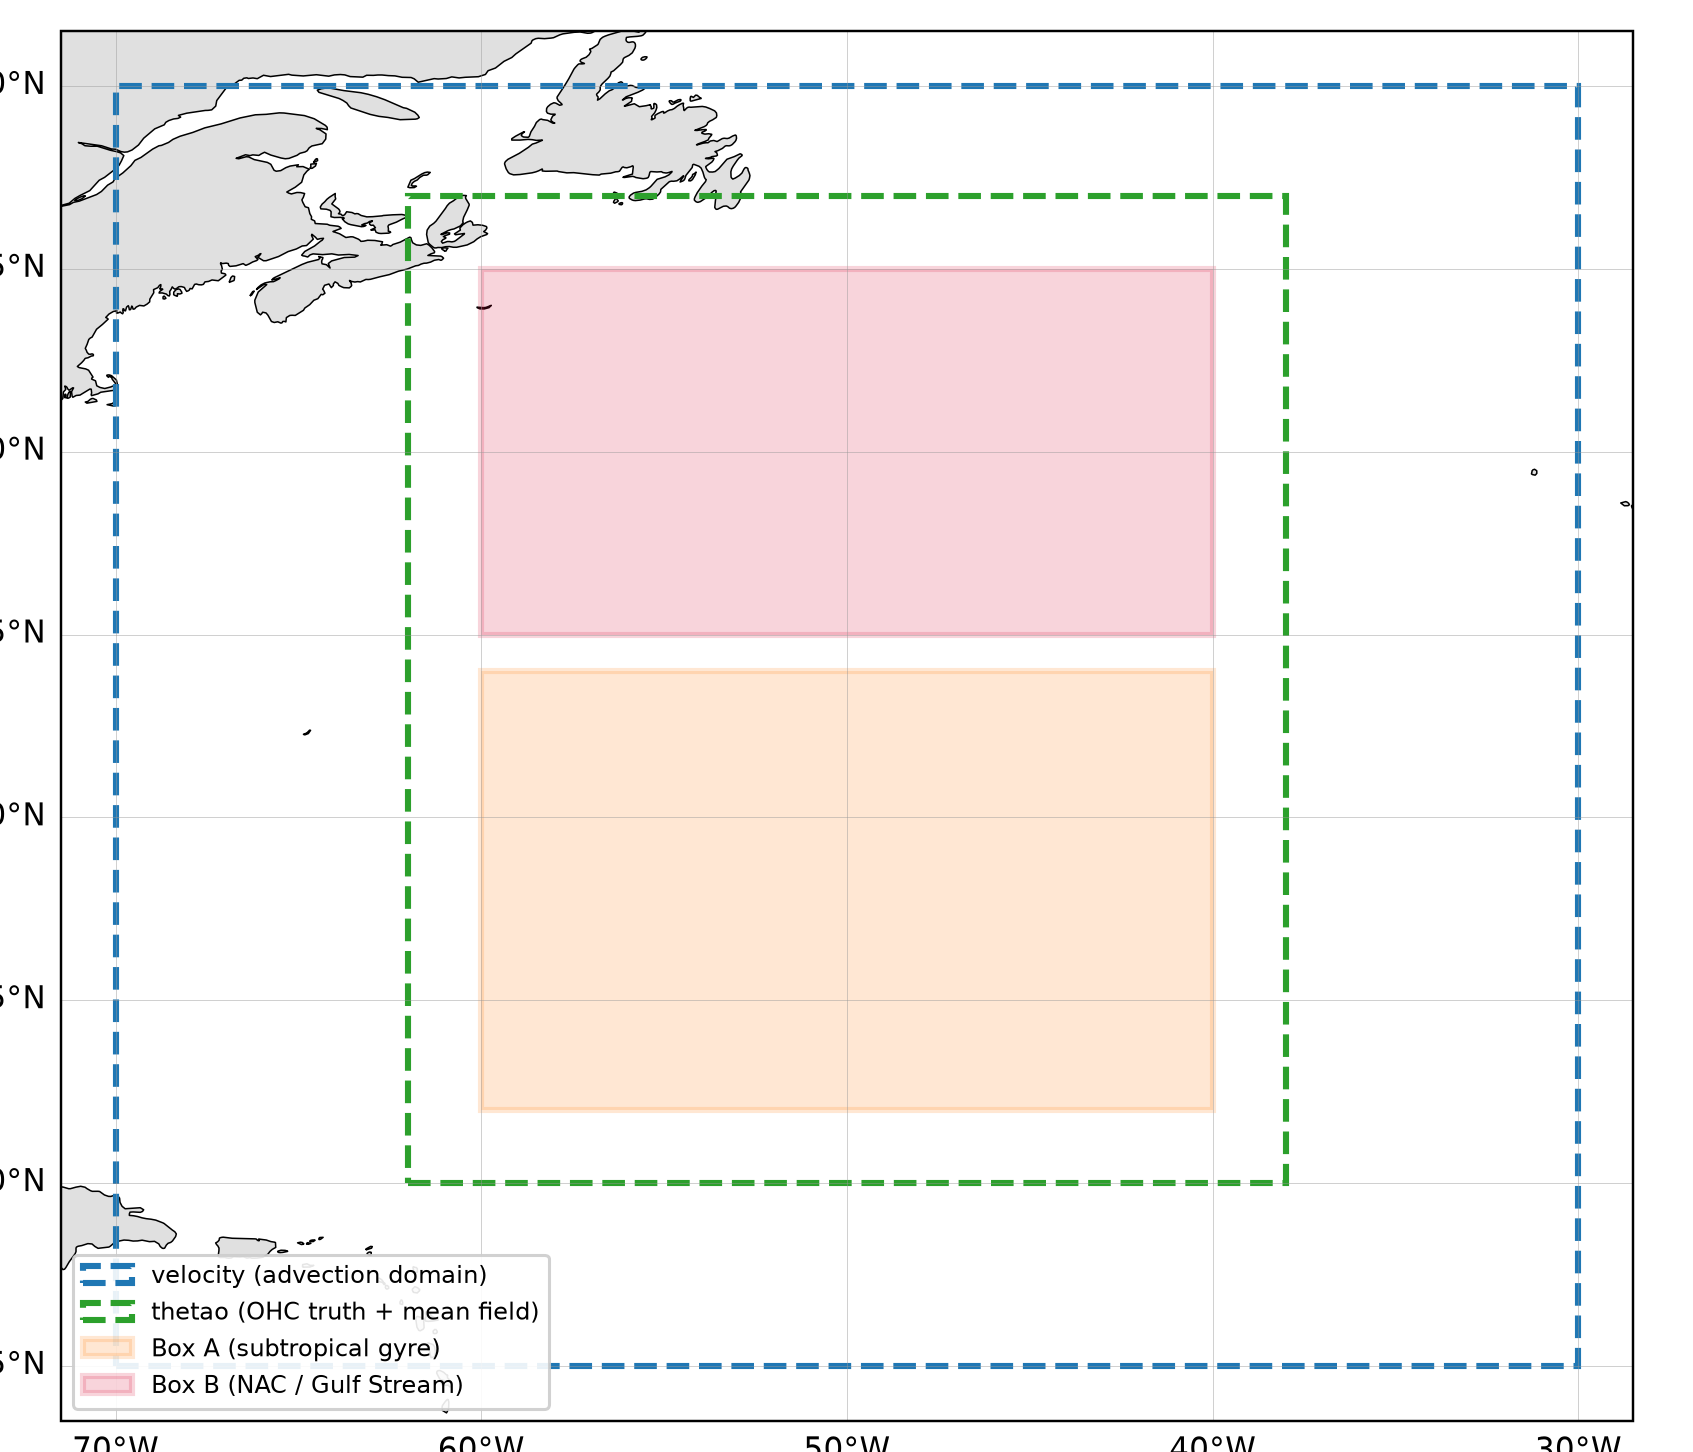
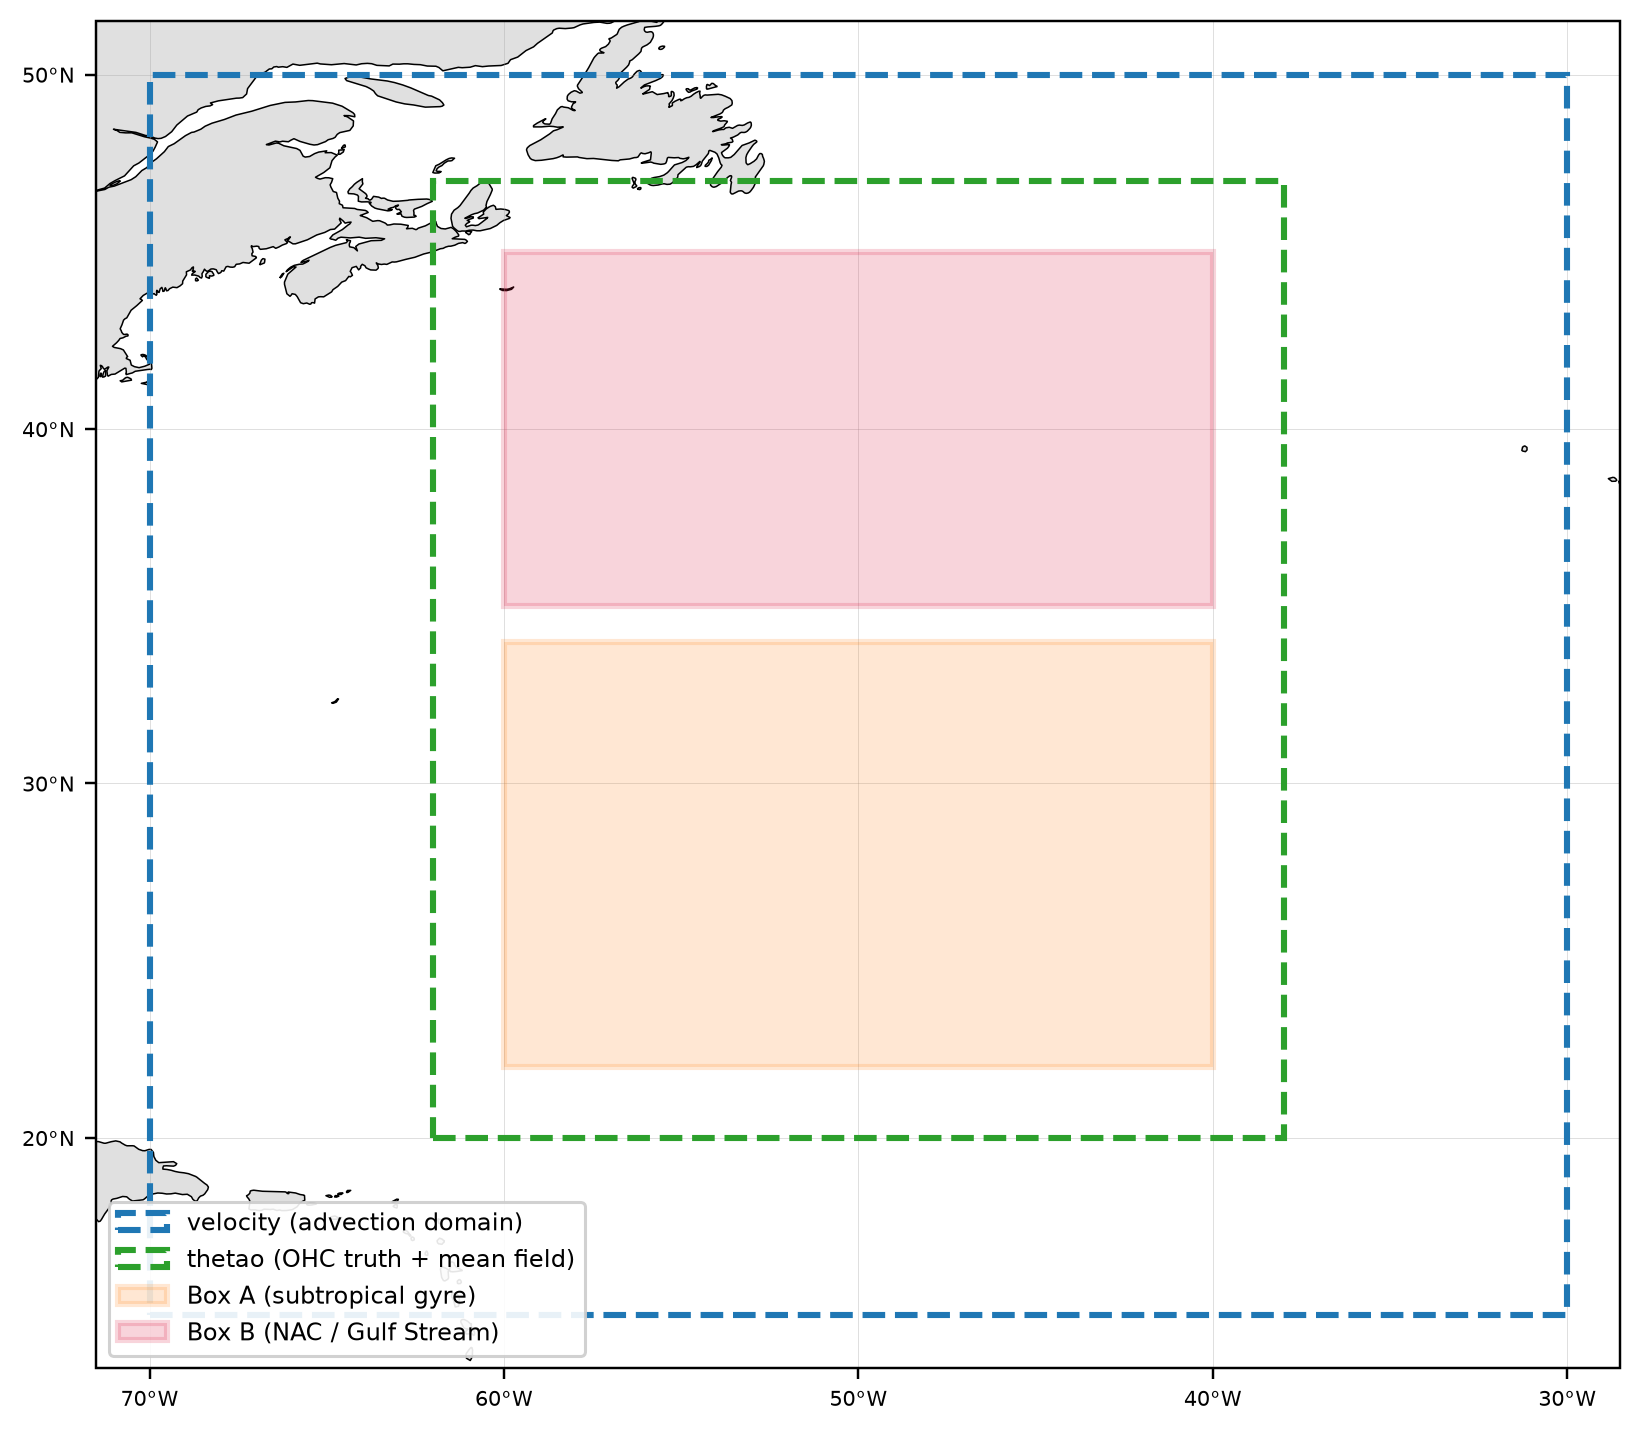
report: domain and residual-field maps, steady-arm prose
Front section of mean_estimation_mc: analysis-domain map (both boxes
inside the velocity and thetao download regions), single-day residual
fields at the 5/50/95th percentiles of each box's daily spatial spread,
and the fitted mean field at quarterly snapshots. Days are shown
unaveraged; the mean field is shown monthly because it is smooth in time
(0.03 GJ/m2 day-to-day against a 3.8 GJ/m2 seasonal range).

Body rewritten for the 10x10 steady arm: 7,500 designs, MC se ~0.012,
temporal term down to 0.036 rms, and all ten aligned cells below their
column mean. Both noise scales are reported and no p-value is drawn.

Map figures use ordinary matplotlib ticks rather than cartopy's
gridliner: with draw_labels=True, GeoAxes.get_tightbbox raises on a NaN
label position, matplotlib swallows it, and a bbox_inches="tight" save
(what the Jupyter inline backend does) collapses the figure onto the
colorbars, dropping every map.

Note: editing a code/ module a report depends on does not invalidate
reports/.jupyter_cache, which keys on qmd cell source. Module edits need
quarto render --cache-refresh or the render silently replays stale cells.

Changed region(s): [[0.0, 0.0, 0.9939, 1.0], [0.2174, 0.6141, 0.2485, 0.6448], [0.2174, 0.3685, 0.2485, 0.3992]]

diff --git a/code/osse/mean_mc.py b/code/osse/mean_mc.py
@@ -245,45 +245,135 @@ def quantile_days(box, qs=(0.05, 0.5, 0.95)):
     return pd.DataFrame(out)
 
 
+def mean_field_months(box, year, months=(1, 4, 7, 10)):
+    """Fitted mean field evaluated at mid-month, as a (month, lat, lon) array.
+
+    The basis is smooth in time -- day-to-day change is ~0.03 GJ/m^2 against a
+    ~4 GJ/m^2 seasonal range -- so month is the finest unit at which it varies
+    visibly.
+    """
+    from osse import build_residual_field as brf
+    with xr.open_dataset(os.path.join(cfg.OUT_DIR, f"mean_field_coef_{box}.nc")) as ds:
+        shape = (ds.sizes["latitude"], ds.sizes["longitude"])
+        beta = ds["beta"].values.reshape(ds.sizes["coef"], -1)
+        t = np.array([np.datetime64(f"{year}-{m:02d}-15") for m in months],
+                     dtype="datetime64[ns]")
+        m = brf.evaluate_mean_field(beta, t, shape, quadratic=True,
+                                    t_ref=ds.attrs["t_ref"])
+        return xr.DataArray(m, dims=("month", "latitude", "longitude"),
+                            coords={"month": list(months),
+                                    "latitude": ds["latitude"], "longitude": ds["longitude"]})
+
+
+def _map_grid(nrow, ncol, figsize, left=0.05, right=0.885, bottom=0.05, top=0.90,
+              hgap=0.015, vgap=0.11):
+    """GeoAxes grid at explicit positions, plus one colorbar slot per row.
+
+    Positions are set by hand rather than by a layout engine: cartopy gridliners
+    raise inside tight_layout, and constrained layout resolves row-spanning
+    colorbars inconsistently, which silently collapses the map axes.
+    """
+    import matplotlib.pyplot as plt
+    import cartopy.crs as ccrs
+
+    pc = ccrs.PlateCarree()
+    fig = plt.figure(figsize=figsize)
+    w = (right - left - (ncol - 1) * hgap) / ncol
+    h = (top - bottom - (nrow - 1) * vgap) / nrow
+    axes, caxes = [], []
+    for r in range(nrow):
+        y = top - (r + 1) * h - r * vgap
+        axes.append([fig.add_axes([left + c * (w + hgap), y, w, h], projection=pc)
+                     for c in range(ncol)])
+        caxes.append(fig.add_axes([right + 0.012, y + 0.04 * h, 0.014, h * 0.92]))
+    return fig, axes, caxes
+
+
+def _geo_ticks(ax, extent, bottom_labels, left_labels, step=5.0):
+    """Lat/lon ticks via the ordinary matplotlib tick machinery.
+
+    Deliberately NOT ax.gridlines(draw_labels=True): the cartopy gridliner makes
+    GeoAxes.get_tightbbox raise on a NaN label position, matplotlib swallows
+    that, and the figure's tight bbox then collapses onto whatever axes did
+    succeed -- so a bbox_inches="tight" save (what the Jupyter inline backend
+    does, hence Quarto) drops every map and keeps only the colorbars.
+    """
+    import cartopy.crs as ccrs
+    from cartopy.mpl.ticker import LongitudeFormatter, LatitudeFormatter
+    lo0, lo1, la0, la1 = extent
+    ax.set_xticks(np.arange(np.ceil(lo0 / step) * step, lo1 + 1e-9, step),
+                  crs=ccrs.PlateCarree())
+    ax.set_yticks(np.arange(np.ceil(la0 / step) * step, la1 + 1e-9, step),
+                  crs=ccrs.PlateCarree())
+    ax.xaxis.set_major_formatter(LongitudeFormatter())
+    ax.yaxis.set_major_formatter(LatitudeFormatter())
+    ax.tick_params(labelsize=7, labelbottom=bottom_labels, labelleft=left_labels)
+    ax.grid(lw=0.25, color="0.6", alpha=0.4)
+
+
+def _draw_map(ax, da, norm, cmap, extent, title, bottom_labels, left_labels):
+    import cartopy.crs as ccrs
+    import cartopy.feature as cfeature
+    pc = ccrs.PlateCarree()
+    ax.set_extent(extent, crs=pc)
+    ax.add_feature(cfeature.LAND, facecolor="0.88", zorder=0)
+    ax.add_feature(cfeature.COASTLINE, lw=0.4)
+    im = ax.pcolormesh(da["longitude"], da["latitude"], da.values * J_TO_GJ,
+                       cmap=cmap, norm=norm, transform=pc, shading="auto")
+    ax.set_title(title, fontsize=9)
+    _geo_ticks(ax, extent, bottom_labels, left_labels)
+    return im
+
+
+def _box_extent(box, pad=0.5):
+    (la0, la1), (lo0, lo1) = cfg.BOXES[box]["lat_bounds"], cfg.BOXES[box]["lon_bounds"]
+    return [lo0 - pad, lo1 + pad, la0 - pad, la1 + pad]
+
+
 def plot_quantile_days(boxes=("boxB", "boxA"), qs=(0.05, 0.5, 0.95),
-                       figsize=(13, 7.6), clip=0.995):
+                       figsize=(12.5, 8.2), clip=0.995):
     """Single-day residual fields at quantiles of each box's daily spatial spread.
 
     One row per box on its own colour scale: the boxes differ several-fold in
     amplitude, and a shared scale would flatten the within-box structure this
     figure exists to show.
     """
-    import matplotlib.pyplot as plt
-    import cartopy.crs as ccrs
-    import cartopy.feature as cfeature
     from matplotlib.colors import TwoSlopeNorm
 
-    pc = ccrs.PlateCarree()
-    fig, axes = plt.subplots(len(boxes), len(qs), figsize=figsize,
-                             subplot_kw={"projection": pc}, layout="constrained",
-                             squeeze=False)
+    fig, axes, caxes = _map_grid(len(boxes), len(qs), figsize)
     for r, box in enumerate(boxes):
         sel = quantile_days(box, qs)
-        (la0, la1), (lo0, lo1) = cfg.BOXES[box]["lat_bounds"], cfg.BOXES[box]["lon_bounds"]
         with xr.open_dataset(os.path.join(cfg.OUT_DIR, f"residual_field_{box}.nc")) as ds:
             days = [ds["z"].sel(year=int(d.year)).isel(doy=int(d.doy)).load()
                     for _, d in sel.iterrows()]
         hi = max(float(np.nanquantile(np.abs(d.values), clip)) for d in days) * J_TO_GJ
         norm = TwoSlopeNorm(vmin=-hi, vcenter=0.0, vmax=hi)
         for c, (ax, day, (_, d)) in enumerate(zip(axes[r], days, sel.iterrows())):
-            ax.set_extent([lo0 - 0.5, lo1 + 0.5, la0 - 0.5, la1 + 0.5], crs=pc)
-            ax.add_feature(cfeature.LAND, facecolor="0.88", zorder=0)
-            ax.add_feature(cfeature.COASTLINE, lw=0.4)
-            im = ax.pcolormesh(day["longitude"], day["latitude"], day.values * J_TO_GJ,
-                               cmap="RdBu_r", norm=norm, transform=pc, shading="auto")
-            ax.set_title(f"{box}  {int(d.q * 100)}th pctile day\n"
-                         f"{int(d.year)} doy {int(d.doy) + 1}, "
-                         f"sd {d.sd * J_TO_GJ:.2f} GJ/m2", fontsize=9)
-            gl = ax.gridlines(draw_labels=True, lw=0.25, color="0.6", alpha=0.4)
-            gl.top_labels = gl.right_labels = False
-            gl.bottom_labels, gl.left_labels = r == len(boxes) - 1, c == 0
-            gl.xlabel_style = gl.ylabel_style = {"size": 7}
-        fig.colorbar(im, ax=axes[r], shrink=0.85, pad=0.02, label="Z (GJ/m2)")
+            im = _draw_map(ax, day, norm, "RdBu_r", _box_extent(box),
+                           f"{box}  {int(d.q * 100)}th pctile day\n"
+                           f"{int(d.year)} doy {int(d.doy) + 1}, "
+                           f"sd {d.sd * J_TO_GJ:.2f} GJ/m2",
+                           r == len(boxes) - 1, c == 0)
+        fig.colorbar(im, cax=caxes[r], label="Z (GJ/m2)")
+    return fig
+
+
+def plot_mean_field_months(boxes=("boxB", "boxA"), year=2015, months=(1, 4, 7, 10),
+                           figsize=(14.5, 8.2)):
+    """Fitted mean field at mid-month, one row per box on its own scale."""
+    from matplotlib.colors import Normalize
+    names = {1: "Jan", 4: "Apr", 7: "Jul", 10: "Oct"}
+
+    fig, axes, caxes = _map_grid(len(boxes), len(months), figsize)
+    for r, box in enumerate(boxes):
+        mf = mean_field_months(box, year, months)
+        lo, hi = (float(np.nanquantile(mf.values, q)) * J_TO_GJ for q in (0.01, 0.99))
+        norm = Normalize(vmin=lo, vmax=hi)
+        for c, ax in enumerate(axes[r]):
+            im = _draw_map(ax, mf.isel(month=c), norm, "viridis", _box_extent(box),
+                           f"{box}  {names.get(months[c], months[c])} {year}",
+                           r == len(boxes) - 1, c == 0)
+        fig.colorbar(im, cax=caxes[r], label="mean field (GJ/m2)")
     return fig
 
 
@@ -317,8 +407,7 @@ def plot_domain_map(boxes=("boxA", "boxB"), figsize=(7.5, 6.4)):
                                fill=fill, facecolor=color if fill else "none",
                                alpha=0.18 if fill else 1.0, edgecolor=color,
                                lw=2.0, ls="-" if fill else "--", zorder=2, label=label))
-    gl = ax.gridlines(draw_labels=True, lw=0.3, color="0.6", alpha=0.5)
-    gl.top_labels = gl.right_labels = False
+    _geo_ticks(ax, [v[2] - 1.5, v[3] + 1.5, v[0] - 1.5, v[1] + 1.5], True, True, step=10.0)
     ax.legend(loc="lower left", fontsize=8, framealpha=0.9)
     return fig
 
